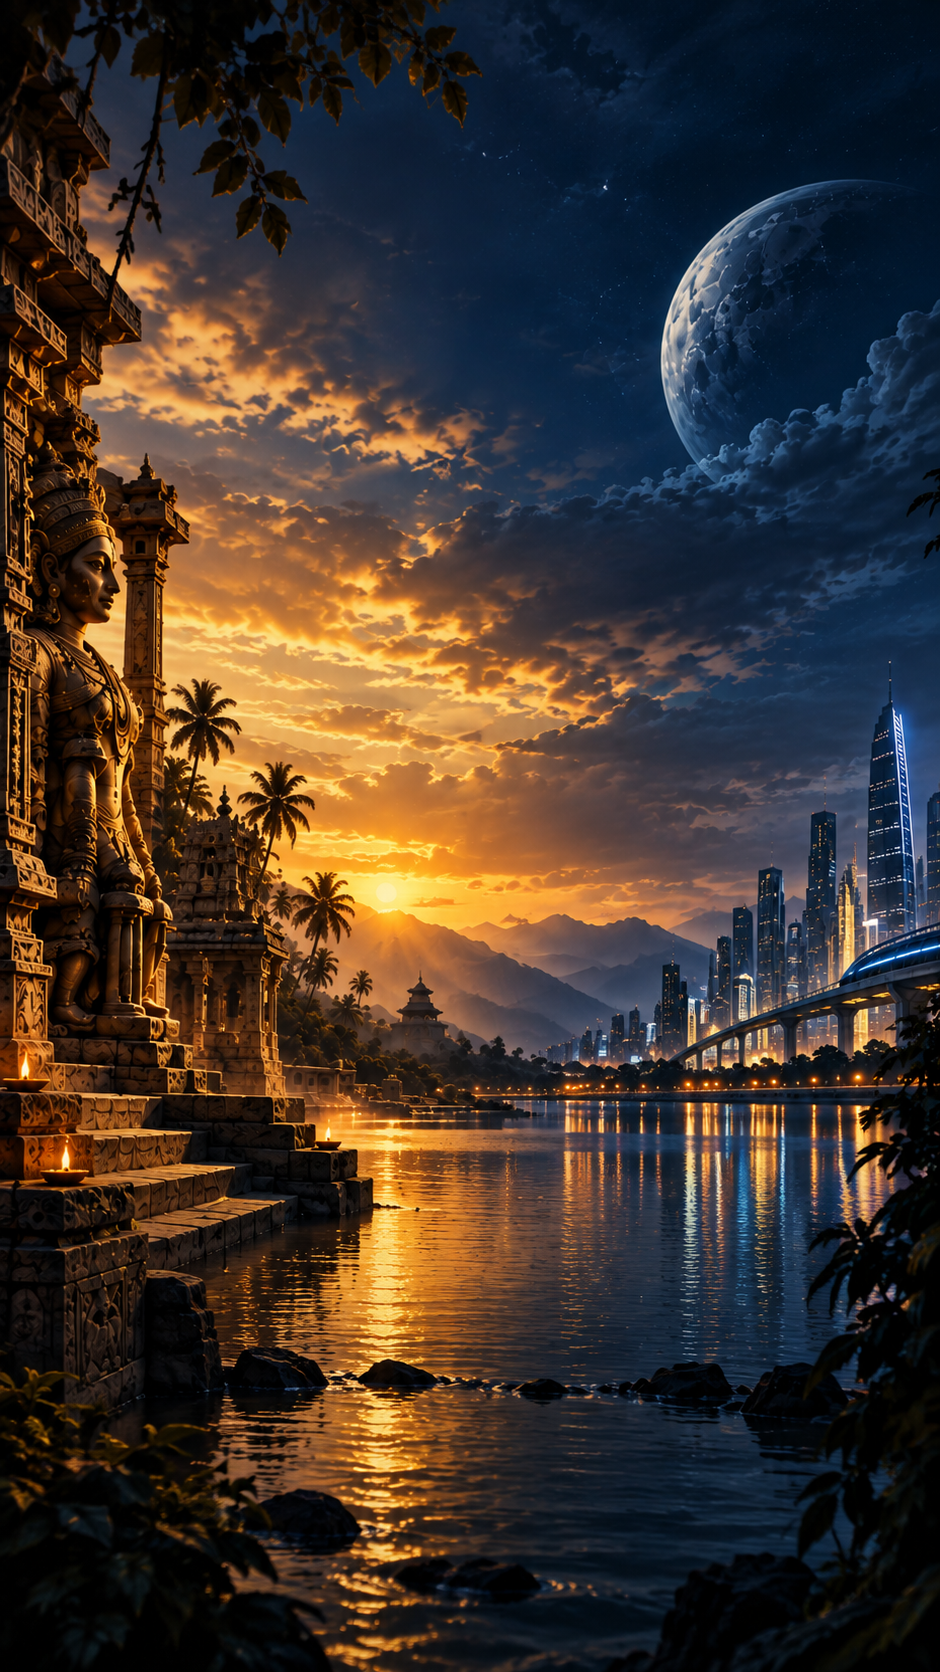
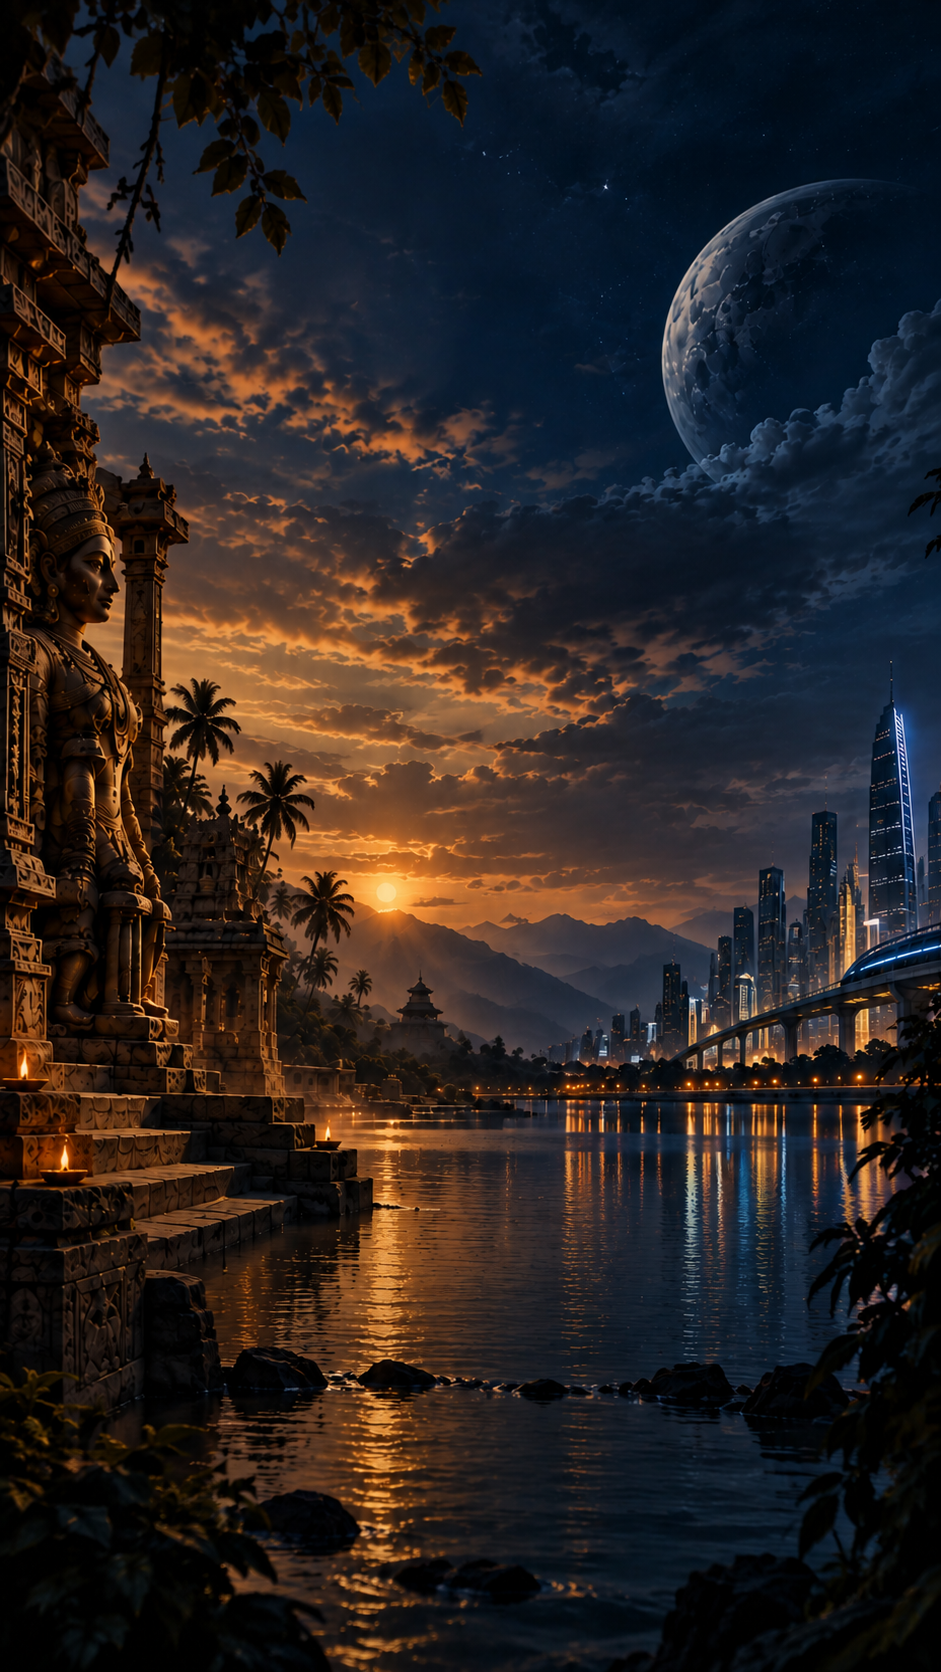
udpage

diff --git a/frontend/kshitija/src/pages/Home.jsx b/frontend/kshitija/src/pages/Home.jsx
@@ -180,7 +180,7 @@ function Home() {
         />
 
         {/* DARK OVERLAY */}
-        <div className="absolute inset-0 bg-[#02101d]/30 backdrop-blur-sm" />
+        <div className="absolute inset-0 bg-[#02101d]/20" />
 
         {/* TOP GRADIENT */}
         <div className="absolute inset-x-0 top-0 h-40 bg-gradient-to-b from-[#031426]/90 to-transparent" />
